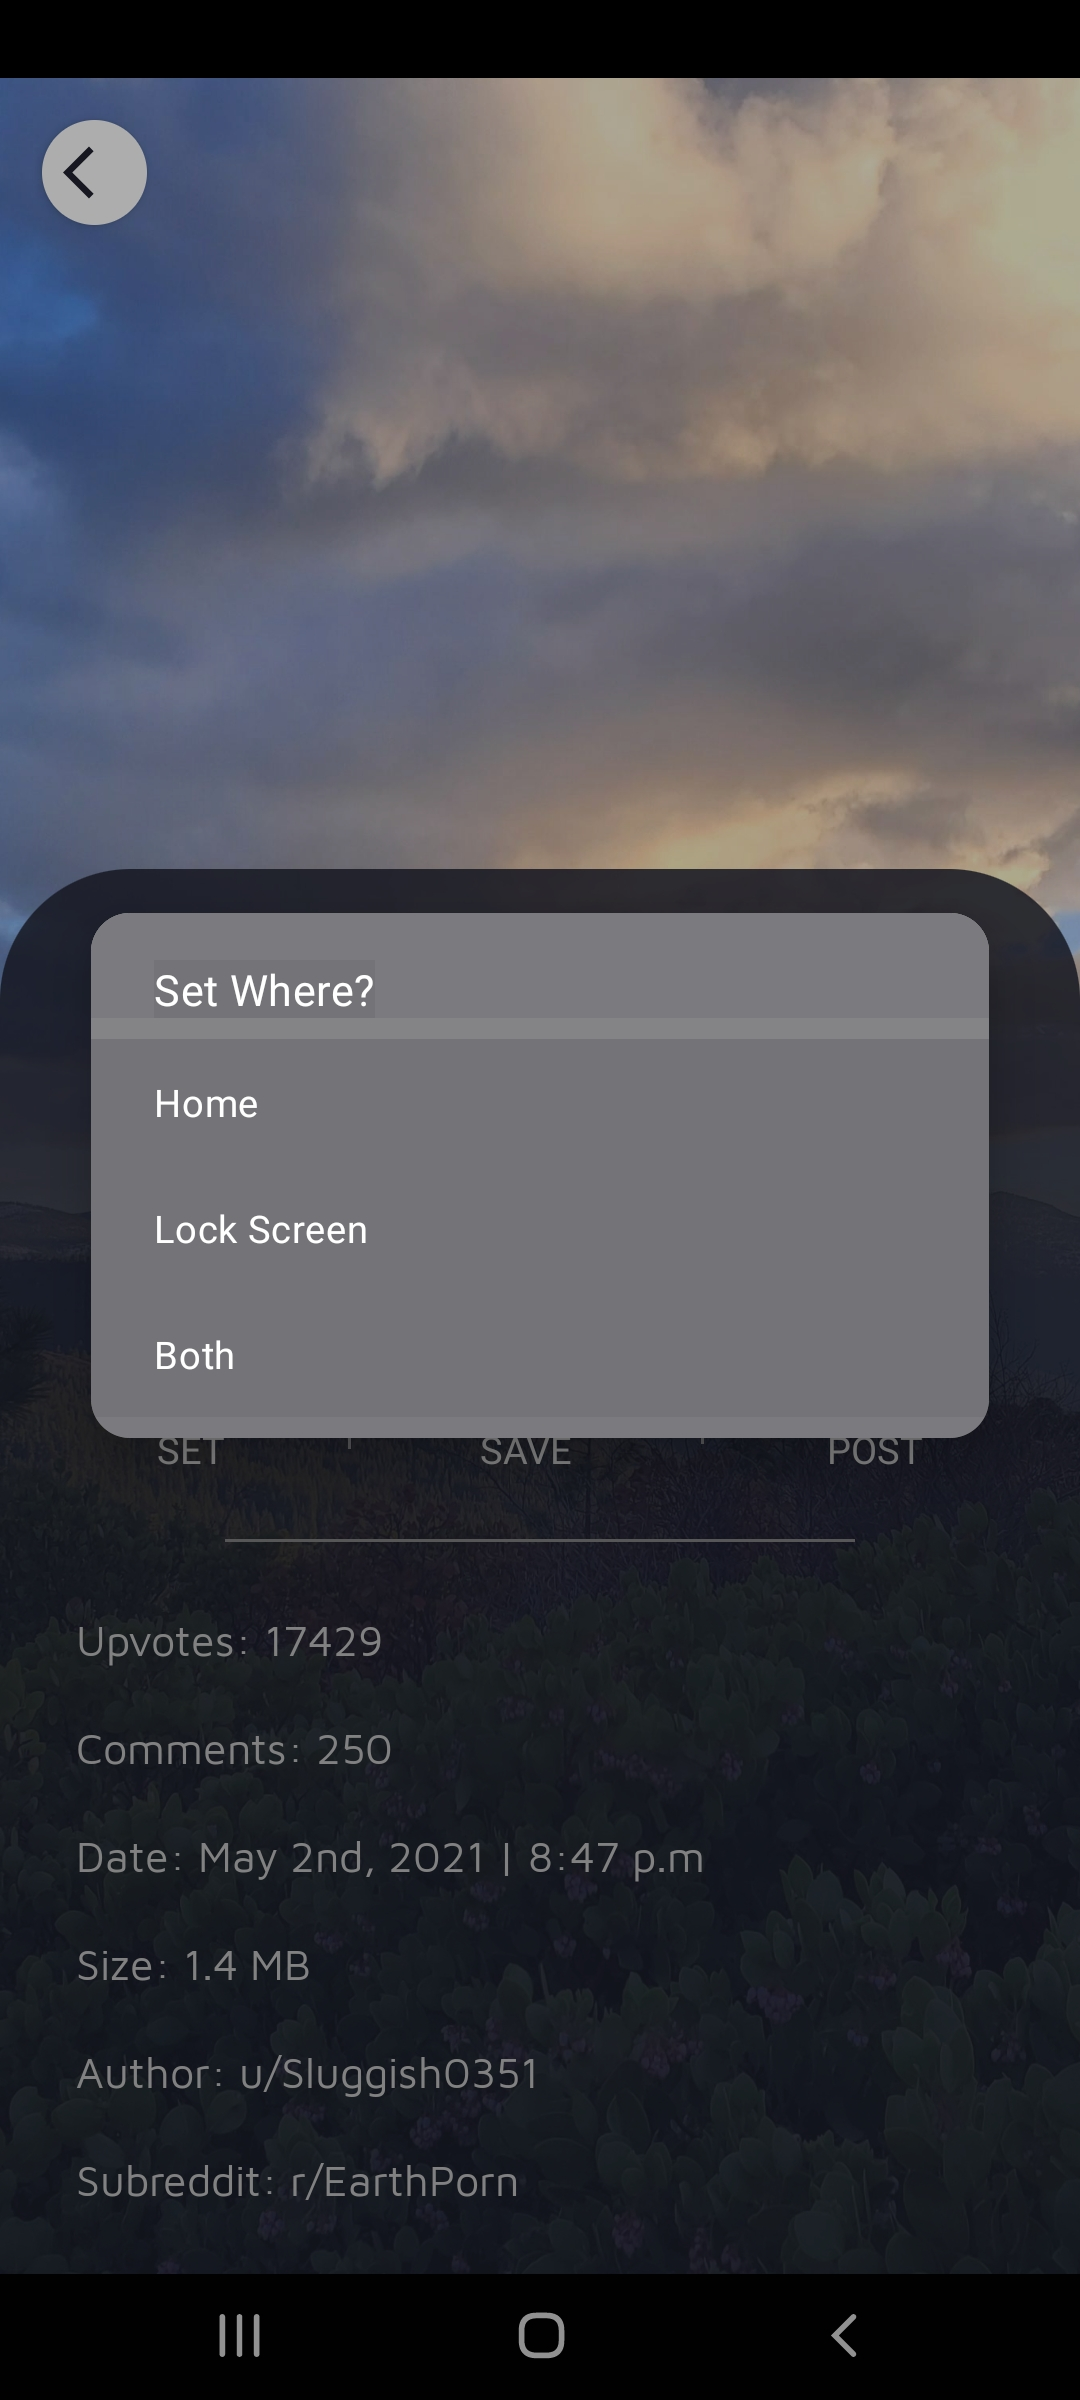
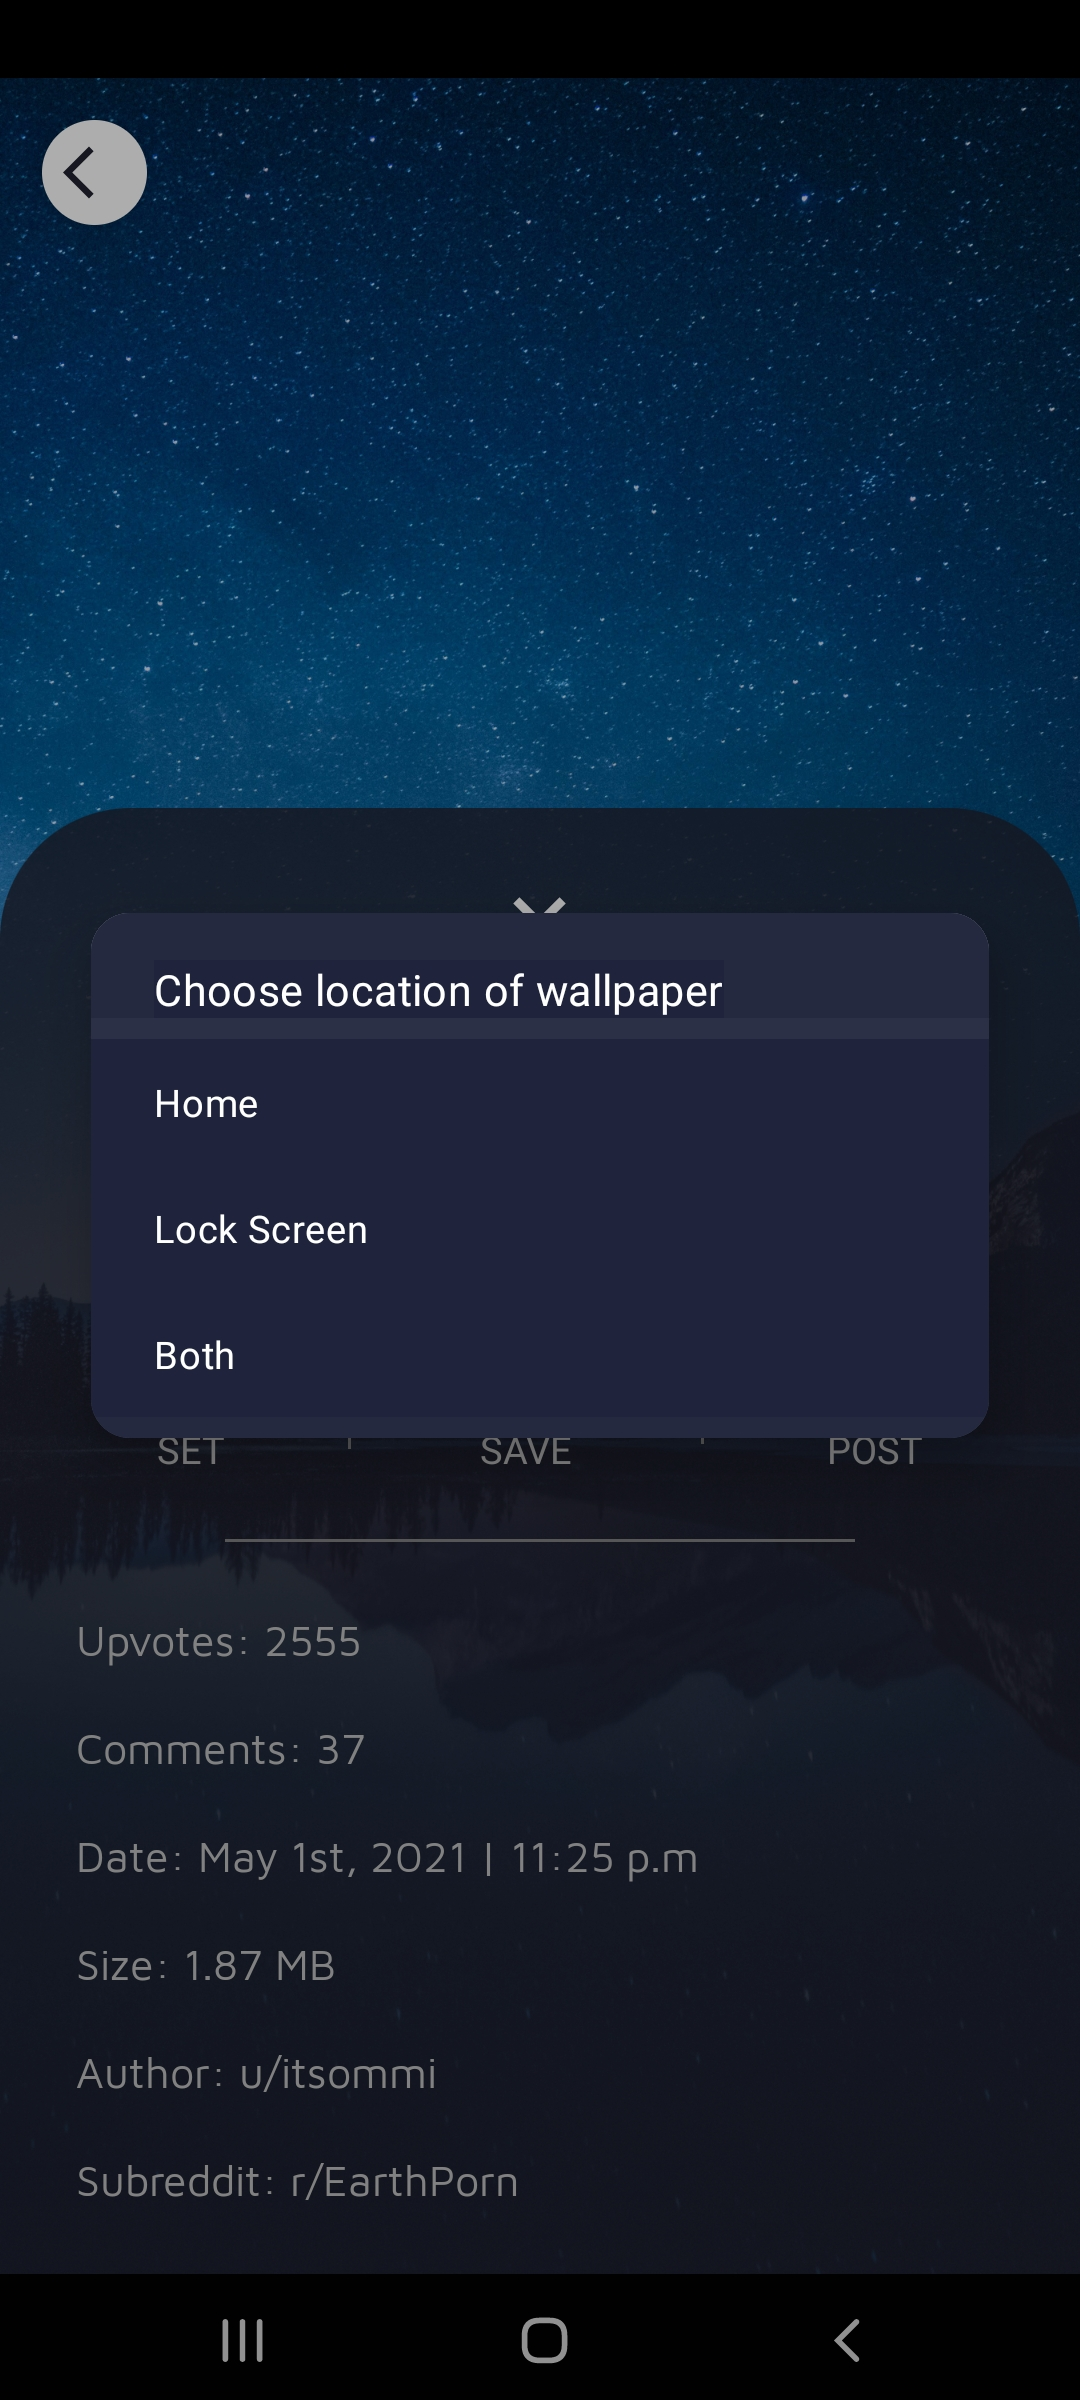
Updated screenshots, changed dark theme color for cardview

diff --git a/app/src/main/java/com/example/tapestry/activities/WallpaperActivity.kt b/app/src/main/java/com/example/tapestry/activities/WallpaperActivity.kt
@@ -146,7 +146,7 @@ class WallpaperActivity : AppCompatActivity(), GestureDetector.OnGestureListener
         }
         val bitmap = (binding.wallHolder.drawable as BitmapDrawable).bitmap
         val builder = MaterialAlertDialogBuilder(this, R.style.MyThemeOverlayAlertDialog)
-        builder.setTitle("Set Where?")
+        builder.setTitle("Choose location of wallpaper")
             .setItems(R.array.location_options) { _, i ->
                 temp.show()
                 val wallLoc = if (i == 0) {
